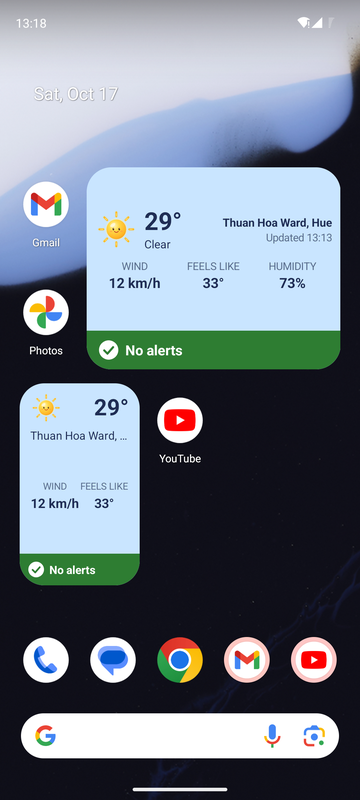
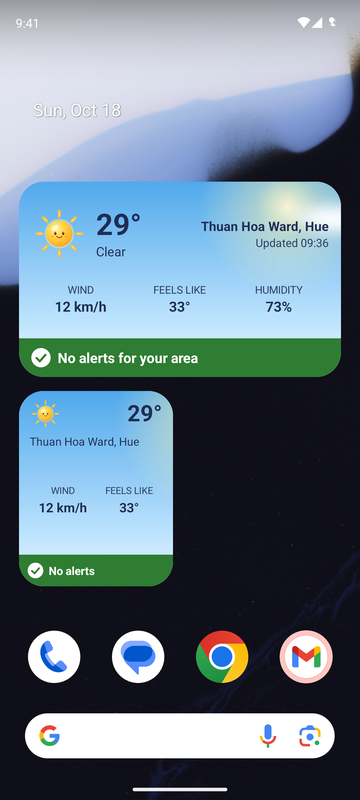
Update README.MD

diff --git a/README.md b/README.md
@@ -11,7 +11,7 @@
 
 <p align="center">
   <img src="docs/screenshots/home.png" width="160" alt="Home: the weather and a heavy-rain alert">
-  <img src="docs/screenshots/widgets.png" width="160" alt="The two home-screen widgets: weather, place and no alerts">
+  <img src="docs/screenshots/widgets.png" width="160" alt="The two home-screen widgets over a picture of the sky: weather, place and no alerts">
   <img src="docs/screenshots/river-flood.png" width="160" alt="The river forecast against its flood level">
   <img src="docs/screenshots/shelters.png" width="160" alt="The nearest evacuation places">
   <img src="docs/screenshots/skills.png" width="160" alt="What to do in each kind of disaster">
